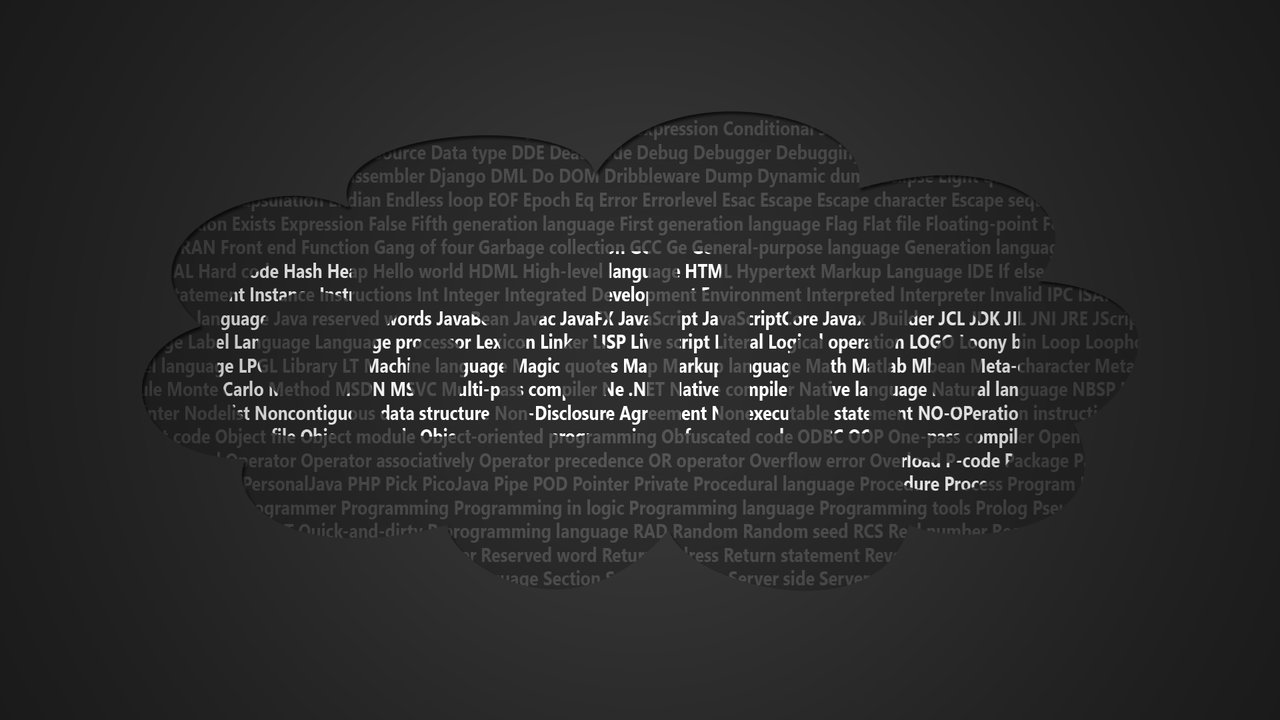
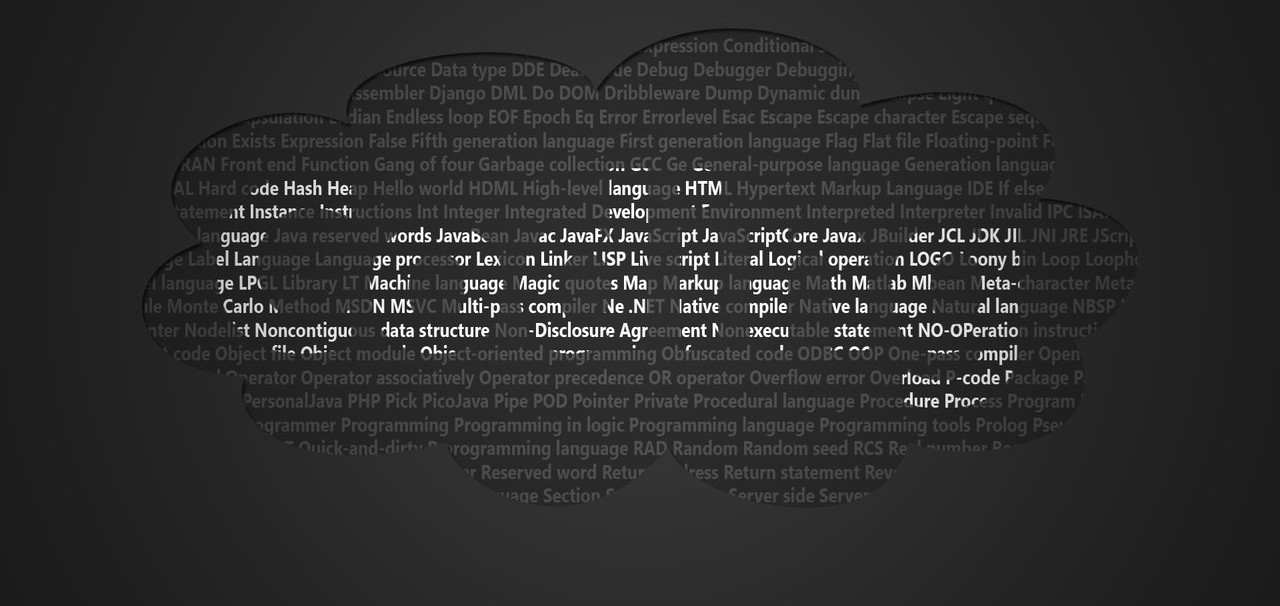
Header

Changed region(s): [[0.125, 0.0594, 0.875, 0.7129], [0.5312, 0.7426, 0.6875, 0.8317], [0.375, 0.7426, 0.5, 0.8317]]

diff --git a/_sass/_style.scss b/_sass/_style.scss
@@ -2506,7 +2506,7 @@ body {
       background: url(../assets/img/landing/coding.jpg) 50% 0 no-repeat;
     }
     &.two {
-      background: url(../assets/img/landing/images.jpg) 50% 0 no-repeat;
+      background: url(../assets/img/landing/coding888.jpg) 50% 0 no-repeat;
     }
   }
   .carousel {
